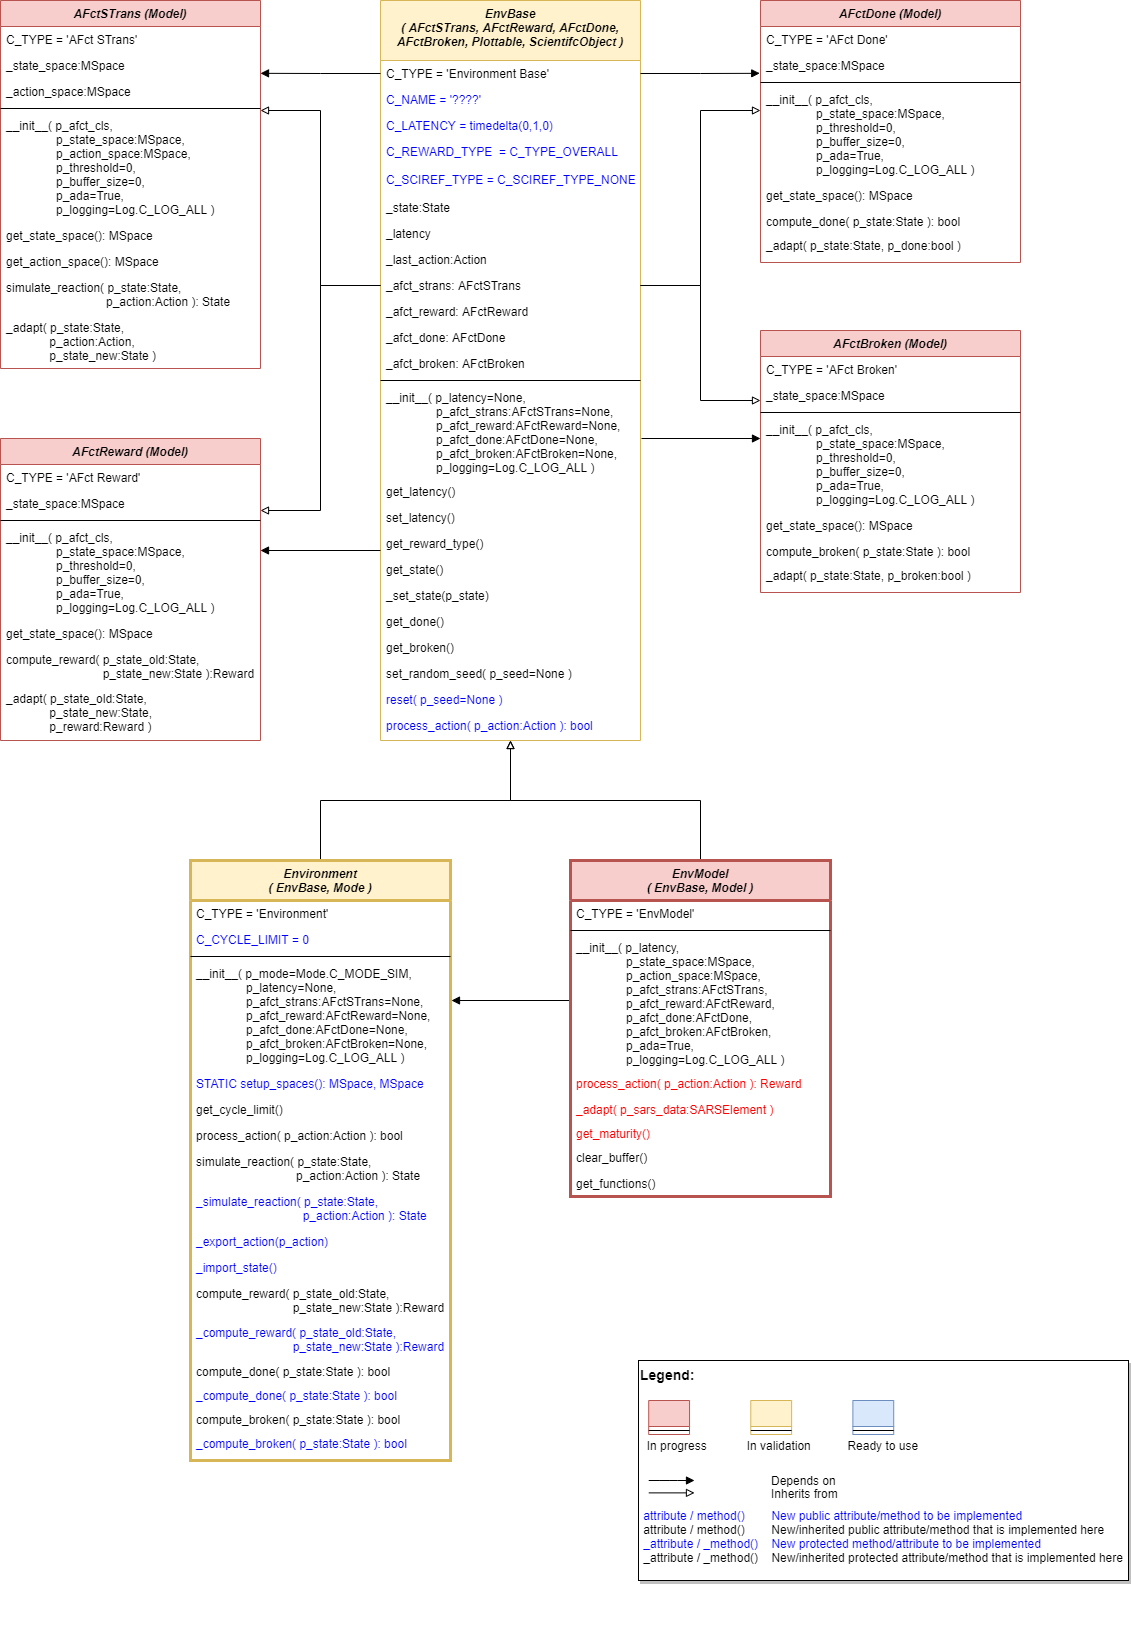
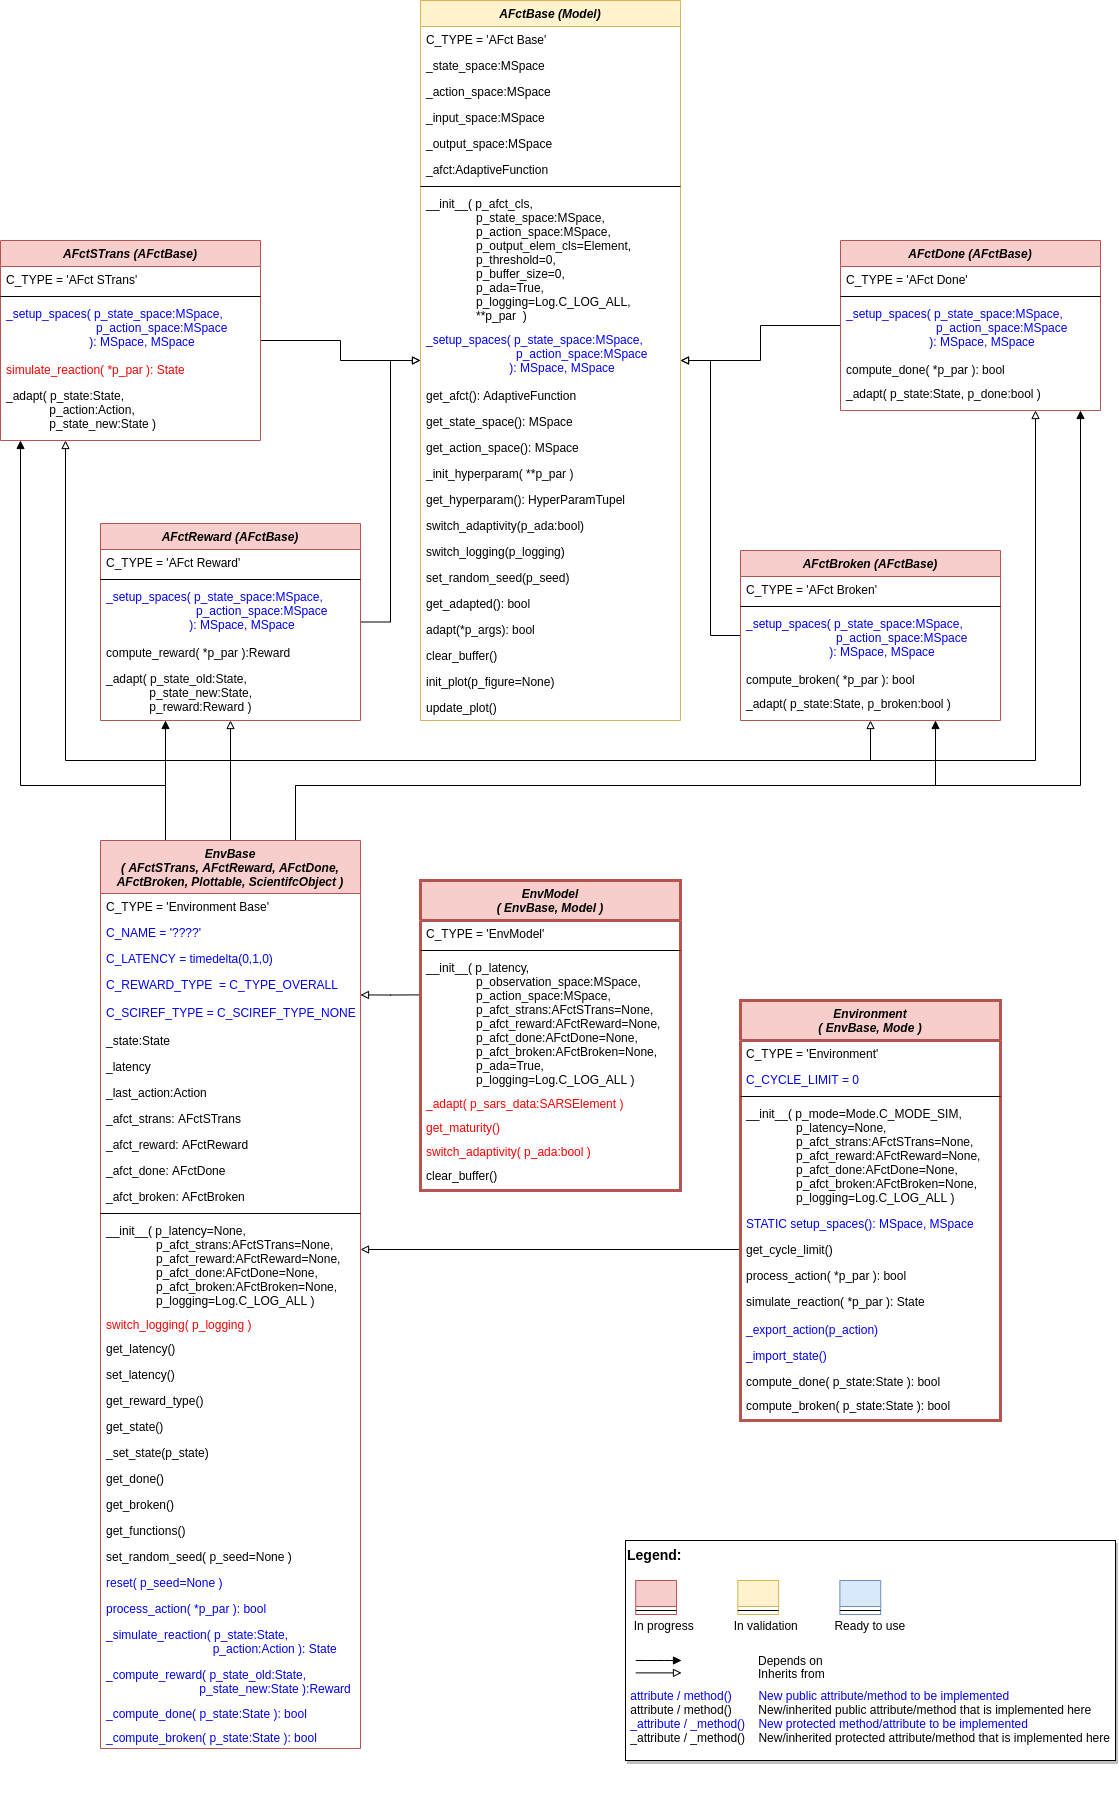
RL-ENV: Redesign AFct class hierarchy

diff --git a/src/mlpro/rl/models_env.py b/src/mlpro/rl/models_env.py
@@ -14,13 +14,13 @@
 ## -- 2021-10-05  1.1.3     DA       Introduction of method Environment.get_cycle_limit()
 ## -- 2021-10-05  1.1.4     SY       Bugfixes and minor improvements
 ## -- 2021-10-25  1.1.5     SY       Enhancement of class EnvBase by adding ScientificObject.
-## -- 2021-11-27  1.2.0     DA       Redesign:
+## -- 2021-11-29  1.2.0     DA       Redesign:
 ## --                                - Introduction of special adaptive function classes AFct*
 ## --                                - Rework of classes EnvBase, Environment, EnvModel
 ## -------------------------------------------------------------------------------------------------
 
 """
-Ver. 1.2.0 (2021-11-27)
+Ver. 1.2.0 (2021-11-29)
 
 This module provides model classes for environments and environnment models.
 """
@@ -31,19 +31,171 @@ from mlpro.rl.models_sar import *
 
 
 
+## -------------------------------------------------------------------------------------------------
+## -------------------------------------------------------------------------------------------------
 class AFctBase (Model):
     """
-    ...
+    Base class for all special adaptive functions (state transition, reward, done, broken). 
+
+    Parameters
+    ----------
+    p_afct_cls 
+        Adaptive function class (compatible to class AdaptiveFunction)
+    p_state_space : MSpace
+        State space of an environment or observation space of an agent
+    p_action_space : MSpace
+        Action space of an environment or agent
+    p_output_elem_cls 
+        Output element class (compatible to/inherited from class Element)
+    p_threshold : float
+        Threshold for the difference between a setpoint and a computed output. Computed outputs with 
+        a difference less than this threshold will be assessed as 'good' outputs. Default = 0.
+    p_buffer_size : int
+        Initial size of internal data buffer. Defaut = 0 (no buffering).
+    p_ada : bool
+        Boolean switch for adaptivitiy. Default = True.
+    p_logging
+        Log level (see constants of class Log). Default: Log.C_LOG_ALL
+    p_par : Dict
+        Futher model specific parameters (to be specified in chhild class).
+
+    Attributes
+    ----------
+    _state_space : MSpace
+        State space
+    _action_space : MSpace
+        Action space
+    _input_space : MSpace
+        Input space of embedded adaptive function
+    _output_space : MSpace
+        Output space oof embedded adaptive function
+    _afct : AdaptiveFunction
+        Embedded adaptive function
+
     """
 
+    C_TYPE          = 'AFct Base'
+
+## -------------------------------------------------------------------------------------------------
     def __init__(self, 
-                 p_afct_classname:str,
+                 p_afct_cls,
                  p_state_space:MSpace,
+                 p_action_space:MSpace,
+                 p_output_elem_cls=Element,     
                  p_threshold=0,
                  p_buffer_size=0,
                  p_ada=True,
-                 p_logging=Log.C_LOG_ALL):
+                 p_logging=Log.C_LOG_ALL,
+                 **p_par ):
+
+        self._state_space   = p_state_space
+        self._action_space  = p_action_space
+        self._input_space, self._output_space = self._setup_spaces()        
+        
+        try:
+            self._afct = p_afct_cls( p_input_space=self._input_space,
+                                     p_output_space=self._output_space,
+                                     p_output_elem_cls=p_output_elem_cls,
+                                     p_threshold=p_threshold,
+                                     p_buffer_size=p_buffer_size,
+                                     p_ada=p_ada,
+                                     p_logging=p_logging,
+                                     **p_par )
+        except:
+            raise ParamError('Class ' + str(p_afct_cls) + ' is not compatible to class AdaptiveFunction')
+
+        super().__init__(p_buffer_size=0, p_ada=p_ada, p_logging=p_logging)
+
+
+## -------------------------------------------------------------------------------------------------
+    def _setup_spaces(self, p_state_space:MSpace, p_action_space:MSpace):
+        """
+        Custom method to setup input and output space of the adaptive function inside.
+
+        Parameters
+        ----------
+        p_state_space : MSpace
+            State space of an environment or observation space of an agent
+        p_action_space : MSpace
+            Action space of an environment or agent
+
+        Returns
+        -------
+        MSpace
+            Input space
+        MSpace
+            Output space
+
+        """
+
+        raise NotImplementedError
+
+
+## -------------------------------------------------------------------------------------------------
+    def get_afct(self) -> AdaptiveFunction:
+        return self._afct
+
+
+## -------------------------------------------------------------------------------------------------
+    def get_state_space(self) -> MSpace:
+        return self._state_space
+
+
+## -------------------------------------------------------------------------------------------------
+    def get_action_space(self) -> MSpace:
+        return self._action_space
+
+
+## -------------------------------------------------------------------------------------------------
+    def _init_hyperparam(self, **p_par):
         pass
+
+
+## -------------------------------------------------------------------------------------------------
+    def get_hyperparam(self) -> HyperParamTupel:
+        return self._afct.get_hyperparam()
+
+
+## -------------------------------------------------------------------------------------------------
+    def switch_adaptivity(self, p_ada:bool):
+        super().switch_adaptivity(p_ada)
+        self._afct.switch_adaptivity(p_ada)
+
+
+## -------------------------------------------------------------------------------------------------
+    def switch_logging(self, p_logging):
+        super().switch_logging(p_logging)
+        if self._afct is not None: self._afct.switch_logging(p_logging)
+
+
+## -------------------------------------------------------------------------------------------------
+    def set_random_seed(self, p_seed=None):
+        self._afct.set_random_seed(p_seed=p_seed)
+
+
+## -------------------------------------------------------------------------------------------------
+    def get_adapted(self) -> bool:
+        return self._afct.get_adapted()
+
+
+## -------------------------------------------------------------------------------------------------
+    def adapt(self, *p_args) -> bool:
+        return self._afct.adapt(*p_args)
+
+
+## -------------------------------------------------------------------------------------------------
+    def clear_buffer(self):
+        self._afct.clear_buffer()
+
+
+## -------------------------------------------------------------------------------------------------
+    def init_plot(self, p_figure=None):
+        self._afct.init_plot(p_figure=p_figure)
+
+
+## -------------------------------------------------------------------------------------------------
+    def update_plot(self):
+        self._afct.update_plot()
 
 
 
@@ -57,8 +209,8 @@ class AFctSTrans (Model):
 
     Parameters
     ----------
-    p_afct_cls : str
-        Name of an adaptive function class (compatible to class AdaptiveFunction)
+    p_afct_cls 
+        Adaptive function class (compatible to class AdaptiveFunction)
     p_state_space : MSpace
         State space    
     p_action_space: MSpace

diff --git a/src/mlpro/bf/ml.py b/src/mlpro/bf/ml.py
@@ -283,8 +283,8 @@ class AdaptiveFunction (Model, Function):
         Input space of function
     p_output_space : MSpace
         Output space of function
-    p_output_elem_classname : str
-        Name of output element class (compatible to/inherited from class Element)
+    p_output_elem_cls 
+        Output element class (compatible to/inherited from class Element)
     p_threshold : float
         Threshold for the difference between a setpoint and a computed output. Computed outputs with 
         a difference less than this threshold will be assessed as 'good' outputs. Default = 0.
